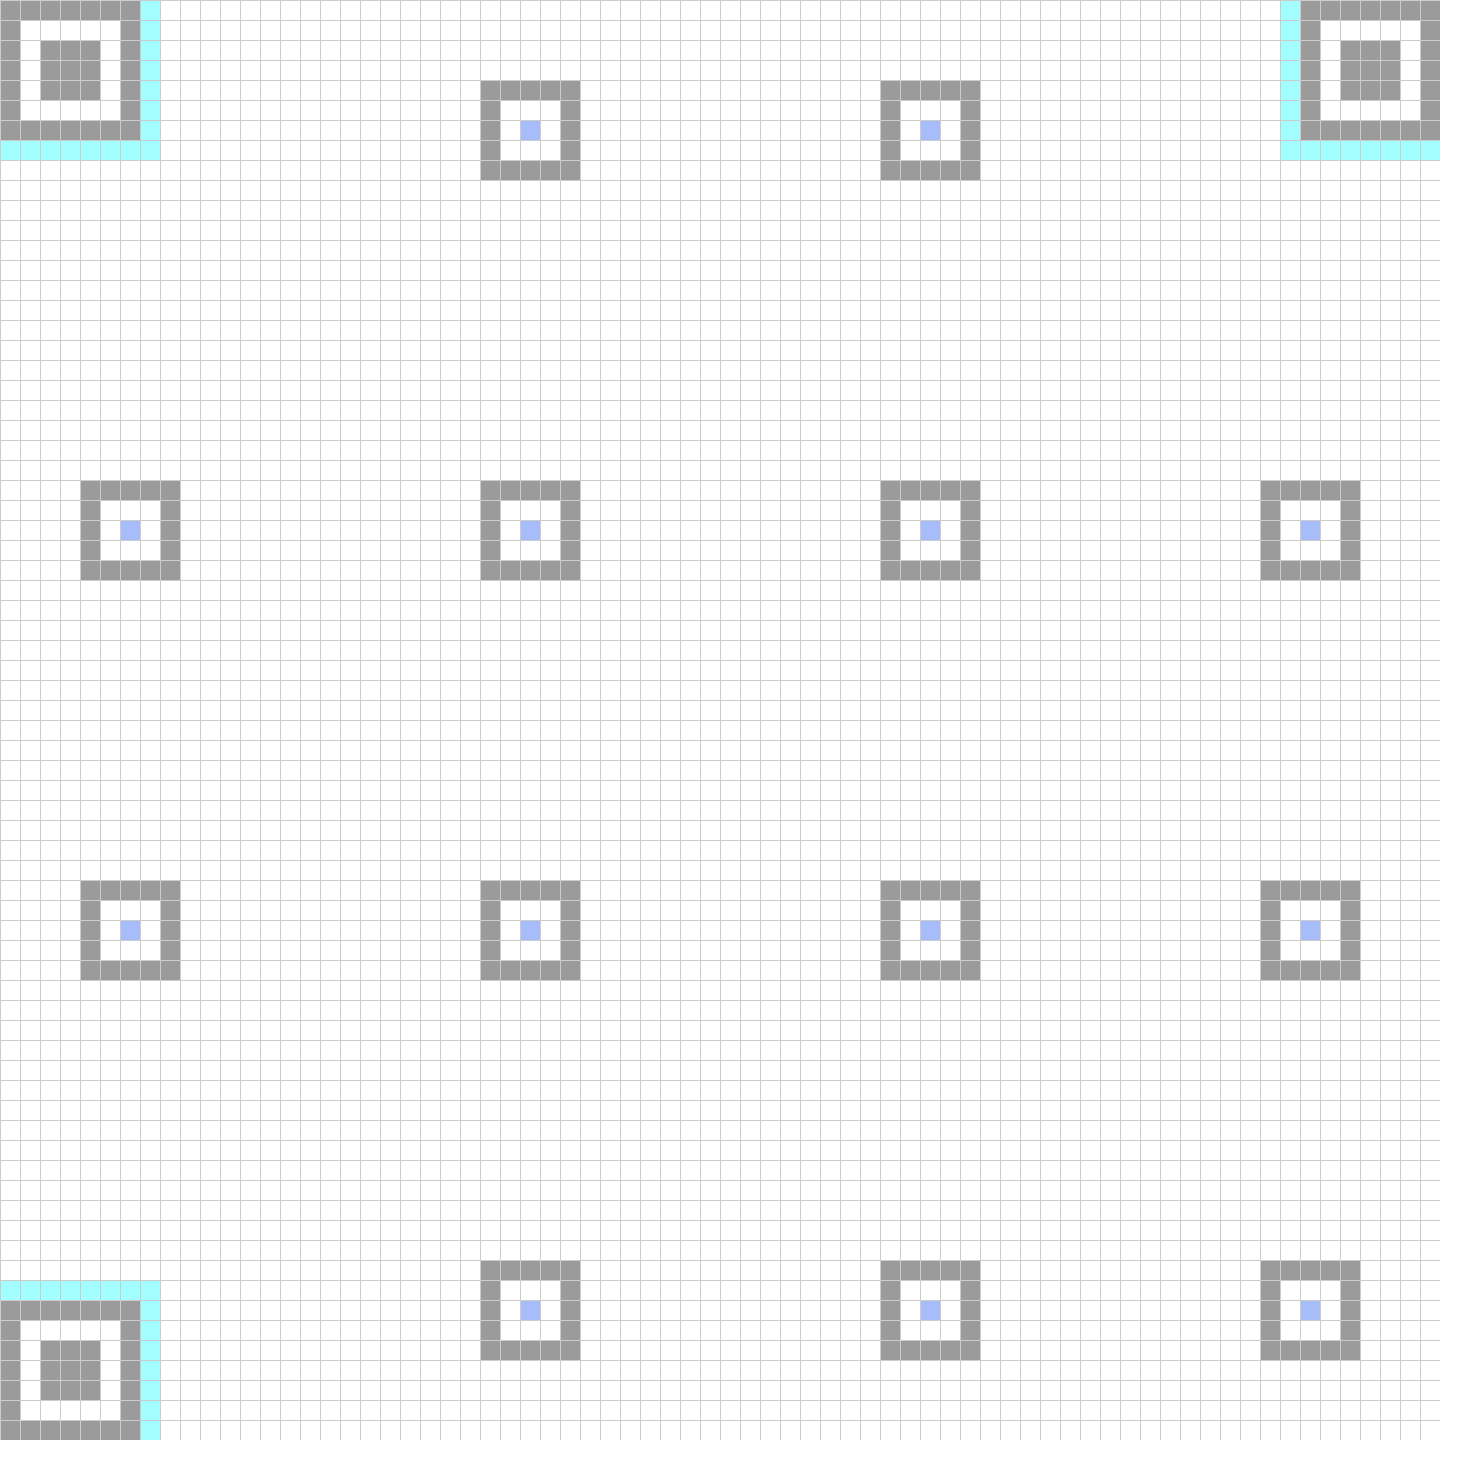
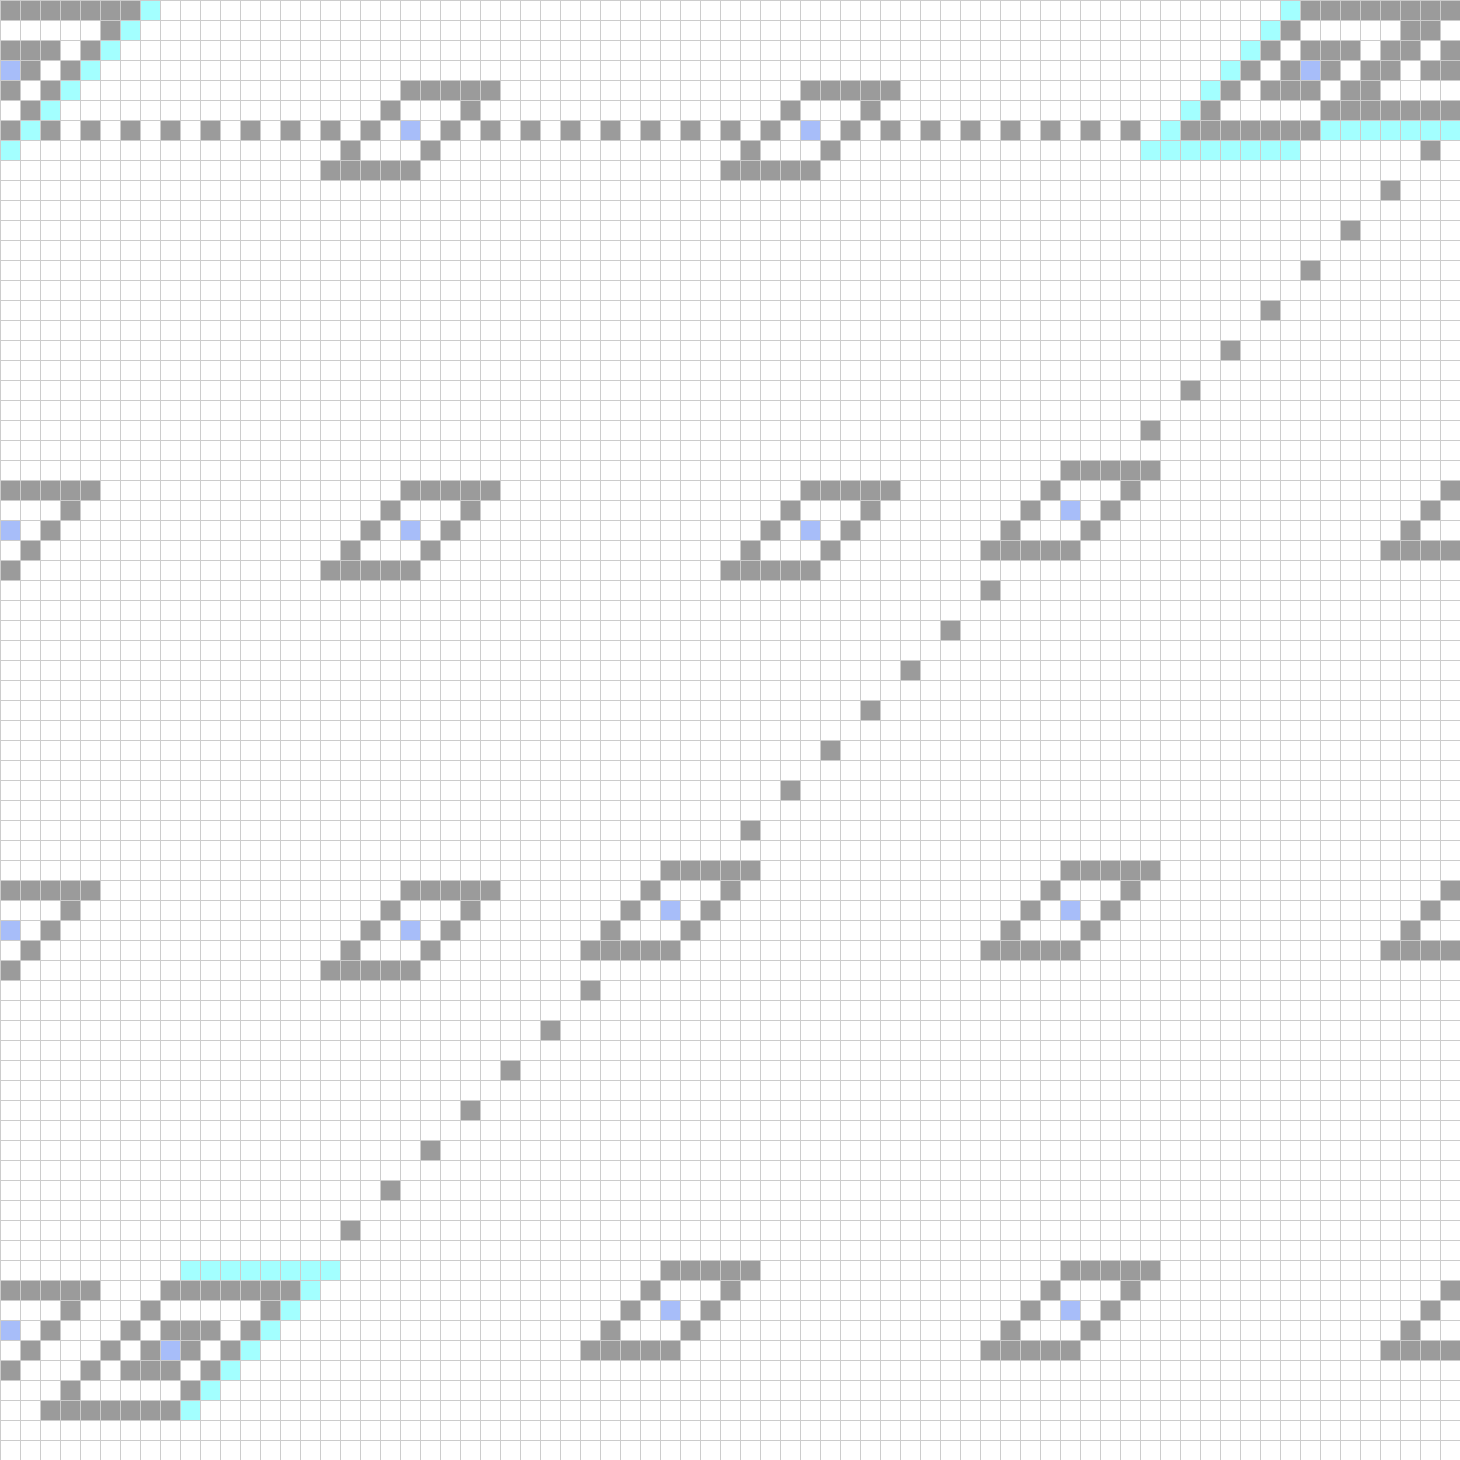
some cleanup

diff --git a/src/main.rs b/src/main.rs
@@ -14,93 +14,6 @@ use self::image_lib::{
     Rgba
 };
 
-pub fn get_pixel_points(cell: &Cell) -> Vec<(u32, u32, Color)> {
-    let i = (cell.point.0 * 20) as u32;
-    let j = (cell.point.1 * 20) as u32;
-    let mut pixels: Vec<(u32, u32, Color)> = vec![];
-    for row in i..(i + 20) {
-        let x_border = match row % 20 {
-            2...18 => false,
-            _ => true
-        };
-        for col in j..(j + 20) {
-            let y_border = match col % 20 {
-                2...18 => false,
-                _ => true
-            };
-            let color: Color;
-            // let shader = match cell.paths {
-            //     0 => 30,
-            //     1 => 45,
-            //     3 => 90,
-            //     4 => 120,
-            //     _ => 0
-            // };
-            // if x_border || y_border {
-            //     color = Color { r: 125, b: 125, g: 125 };
-            // }
-
-            pixels.push((col, row, Color { g: cell.color.g, b: cell.color.b, r: cell.color.r }));
-        }
-    }
-
-    pixels
-}
-
-fn square_count(version: usize) -> usize {
-    (((version - 1) * 4) + 21)
-}
-
-fn args() -> QROptions {
-    /*
-        default options are....
-            if no version, the default version is 21
-
-
-        to do:
-            flag for encoding type - default will be utf-8 (i think?)
-            ???
-
-    */
-    let mut qr_args = args_os();
-    let mut version = 14usize;
-    let mut encoding = 8u8;
-    let mut arg = qr_args.next();
-
-    while arg.is_some() {
-        let value = arg.unwrap();
-        if value == OsStr::new("-v") {
-            version = match qr_args.next() {
-                Some(n) => {
-                    let x = n.to_str().unwrap().parse::<usize>();
-                    match x {
-                        Ok(nx) if nx < 81 => nx,
-                        Ok(_) => 21usize,
-                        Err(_) => 21usize
-                    }
-                },
-                None => 21usize
-            }
-        }
-
-
-        arg = qr_args.next();
-    }
-
-    println!("version: {}, encoding: {}, square_count: {}", version, encoding, square_count(version));
-    QROptions {
-        version: version,
-        encoding: encoding,
-        requires_alignment: version > 1,
-        size: (((version - 1) * 4) + 21),
-        finder_points: [
-            (0, 0),
-            ((square_count(version) - 7) - 1, 0),
-            (0, (square_count(version) - 7) - 1)
-        ]
-    }
-}
-
 pub enum CellType {
     Finder,
     Alignment,
@@ -136,6 +49,73 @@ pub struct PlotPoint {
     pub color: Color
 }
 
+pub fn get_pixel_points(cell: &Cell) -> Vec<(u32, u32, Color)> {
+    let i = (cell.point.0 * 20) as u32;
+    let j = (cell.point.1 * 20) as u32;
+    let mut pixels: Vec<(u32, u32, Color)> = vec![];
+    for row in i..(i + 20) {
+        for col in j..(j + 20) {
+            pixels.push((col, row, Color { g: cell.color.g, b: cell.color.b, r: cell.color.r }));
+        }
+    }
+
+    pixels
+}
+
+fn square_count(version: usize) -> usize {
+    (((version - 1) * 4) + 21)
+}
+
+fn args() -> QROptions {
+    /*
+        default options are....
+            if no version, the default version is 21
+
+
+        to do:
+            flag for encoding type - default will be utf-8 (i think?)
+            ???
+
+    */
+    let mut qr_args = args_os();
+    let mut version = 14usize;
+    let mut arg = qr_args.next();
+
+    while arg.is_some() {
+        let value = arg.unwrap();
+        if value == OsStr::new("-v") {
+            version = match qr_args.next() {
+                Some(n) => {
+                    let x = n.to_str().unwrap().parse::<usize>();
+                    match x {
+                        Ok(nx) if nx < 81 => nx, // if it fails to parse, or parses a number greater than 81, set it to version 21.
+                        Ok(_) => 21usize,
+                        Err(_) => 21usize
+                    }
+                },
+                None => 21usize
+            }
+        }
+
+
+        arg = qr_args.next();
+    }
+
+    QROptions {
+        version: version,
+        encoding: 8u8,
+        requires_alignment: version > 1,
+        size: (((version - 1) * 4) + 21),
+        finder_points: [
+            (0, 0),
+            ((square_count(version) - 7) - 1, 0),
+            (0, (square_count(version) - 7) - 1)
+        ]
+    }
+}
+
+
+
 impl Point {
     pub fn idx(&self, size: usize) -> usize {
         (self.0 * size) + self.1
@@ -150,7 +130,8 @@ struct QR {
 impl QR {
     fn setup(&mut self) {
         for alignment_point in self.config.finder_points.iter() {
-            self.config.apply_finder_patterns(&mut self.body, *alignment_point);
+            let point = Point(alignment_point.0, alignment_point.1);
+            self.config.apply_finder_patterns(&mut self.body, point);
             self.config.apply_separators(&mut self.body, *alignment_point);
         }
 
@@ -160,13 +141,14 @@ impl QR {
         }
 
         self.config.apply_timer_patterns(&mut self.body);
+        println!("LENGTH IS {}, SIZE IS {}", self.body.len(), self.config.size);
     }
 }
 
 impl QROptions {
     pub fn create_body(&self) -> Vec<Cell> {
         let mut rows: Vec<Cell> = vec![];
-        let row_len = square_count(self.version) - 1;
+        let row_len = self.size - 1;
         for x in 0..row_len {
             for y in 0..row_len {
                 let cell = Cell {
@@ -212,11 +194,7 @@ impl QROptions {
         let modifier = (self.size - 13) / version_bracket;
         while n <= self.size - 7 {
             pts.push(n);
-            if n + modifier >= self.size - 7 {
-                n += modifier - 1;
-            } else {
-                n += modifier;
-            }
+            n += modifier;
         }
 
 
@@ -240,7 +218,7 @@ impl QROptions {
                 result
             })
             .flat_map(|pt| {
-                self.plot_spiral(&pt, 4)
+                self.plot_spiral(&pt, 4, 2)
             })
             .collect();
 
@@ -251,7 +229,7 @@ impl QROptions {
         let mut pairs: Vec<Point> = vec![]; //numbers.iter().map(|n| (*n, *n)).collect();
         let xnumbers: Vec<usize> = numbers.iter().cloned().collect();
         for n in numbers {
-            for xn in xnumbers.iter() {
+            for xn in xnumbers.iter() { // can I use the same vec inside its iteration?
                 pairs.push(Point(n, *xn));
             }
         }
@@ -314,11 +292,11 @@ impl QROptions {
         }
     }
 
-    pub fn plot_spiral(&self, origin_pt: &Point, size: usize) -> Vec<PlotPoint> {
+    pub fn plot_spiral(&self, origin_pt: &Point, size: usize, diff: usize) -> Vec<PlotPoint> {
         let mut plot_points: Vec<PlotPoint> = vec![];
         let mut max = size;
         let mut depth = 0;
-        let (mut x, mut y) = (origin_pt.0 - 2, origin_pt.1 - 2);
+        let (mut x, mut y) = (origin_pt.0 - diff, origin_pt.1 - diff);
         while max > 1 {
             let mut cell_steps = max * 4;
             let color = match depth % 2 {
@@ -327,7 +305,6 @@ impl QROptions {
             };
             while cell_steps > 0 {
                 let plot_point = PlotPoint { point: Point(x, y), color: color };
-                // println!("{:?}", color);
                 plot_points.push(plot_point);
                 if cell_steps > 3 * max {
                     y += 1;
@@ -347,55 +324,21 @@ impl QROptions {
             x += 1;
             y += 1;
         }
+        // center cell
         plot_points.push(PlotPoint { point: Point(x, y), color: Color { r: 30, g: 86, b: 240 } });
         plot_points
     }
 
-    pub fn apply_finder_patterns(&self, body: &mut Vec<Cell>, alignment_point: (usize, usize)) {
-        let row_length = square_count(self.version) - 1;
-        let (mut x, mut y) = alignment_point;
-        let mut max = 6;
-        while max > 1 {
-            let mut cell_steps = max * 4;
-            while cell_steps > 0 {
-                let point = Point(x, y);
-                let idx = point.idx(self.size - 1);
-                let cell = body.get_mut(idx);
-                match cell {
-                    Some(c) => {
-                        c.module_type = CellType::Finder;
-                        // change to white
-                        if max != 4 {
-                            c.color = Color { r: 0, g: 0, b: 0 }
-                        }
-                    },
-                    None => panic!("I probably went too far! x: {}, y: {}, row length: {}, max: {}, idx: {}, size: {}", x * row_length, y, row_length, max, idx, self.size)
-                }
-
-                if cell_steps > 3 * max {
-                    y += 1;
-                } else if cell_steps > 2 * max {
-                    x += 1;
-                } else if cell_steps > max {
-                    y -= 1;
-                } else {
-                    x -= 1;
-                }
-
-                cell_steps -= 1;
-
+    pub fn apply_finder_patterns(&self, body: &mut Vec<Cell>, alignment_point: Point) {
+        for plot_point in self.plot_spiral(&alignment_point, 6, 0) {
+            let idx = plot_point.point.idx(self.size - 1);
+            match body.get_mut(idx) {
+                Some(cell) => {
+                    cell.module_type = CellType::Finder;
+                    cell.color = plot_point.color
+                },
+                None => {}
             }
-            max -= 2;
-            x += 1;
-            y += 1;
-        }
-        let cell = body.get_mut((x * row_length) + y);
-        match cell {
-            Some(c) => {
-                c.module_type = CellType::Finder;
-                c.color = Color { r: 0, g: 0, b: 0 };
-            },
-            None => {}
         }
     }
 
@@ -405,14 +348,19 @@ impl QROptions {
             if x >= self.size - 7 {
                 break;
             }
-
-            let idx = (x * self.size - 1) + y;
+            let pt = Point(x, y);
+            let idx = pt.idx(self.size - 1);
             match body.get_mut(idx) {
                 Some(cell) => {
                     match cell.module_type {
                         CellType::None => {
+                            let direction = if y > x {
+                                y
+                            } else {
+                                x
+                            };
                             cell.module_type = CellType::Timing;
-                            if idx % 2 == 0 {
+                            if direction % 2 == 0 {
                                 cell.color = Color { r: 0, g: 0, b: 0 };
                             }
                         },
@@ -434,34 +382,28 @@ impl QROptions {
 }
 
 fn create_qr_image(qr: QR) {
-    let mut img = ImageBuffer::new((qr.config.size as u32)  * 20, (qr.config.size as u32) * 20);
+    let dimensions: u32 = (qr.config.size) as u32;
+    let mut img = ImageBuffer::new(dimensions * 20, dimensions * 20);
     for cell in qr.body {
         for pixel in get_pixel_points(&cell) {
             let (x, y, color) = pixel;
             if x % 20 == 0 || y % 20 == 0 {
+                // cell border
                 let rgb = Rgba { data: [125, 125, 125, 100] };
                 img.put_pixel(x, y, rgb);
-
             } else {
                 let rgb = Rgba { data: [color.r as u8, color.g as u8, color.b as u8, 100] };
                 img.put_pixel(x, y, rgb);
-
             }
         }
     }
 
     let ref mut fout = File::create(&Path::new("qr.png")).unwrap();
-    // img.save();
     let _ = image_lib::ImageRgba8(img).save(fout, image_lib::PNG);
-
-    // let _ = image_lib::ImageRgb8(img).save(fout, image_lib::PNG);
 }
 
 
 fn main() {
-    let qr_version = 1;
-    let size = 49;
-    let message = String::from("www.wikipedia.org - here you can find junk and stuff and whatever and some things of greater importance i just want a longer byte length please thanks");
     let opts: QROptions = args();
     let mut qr: QR = QR {
         body: opts.create_body(),
@@ -469,8 +411,4 @@ fn main() {
     };
     qr.setup();
     create_qr_image(qr);
-
-
-    // args();
-    // create_grid(size, 2, qr_version, message);
 }
